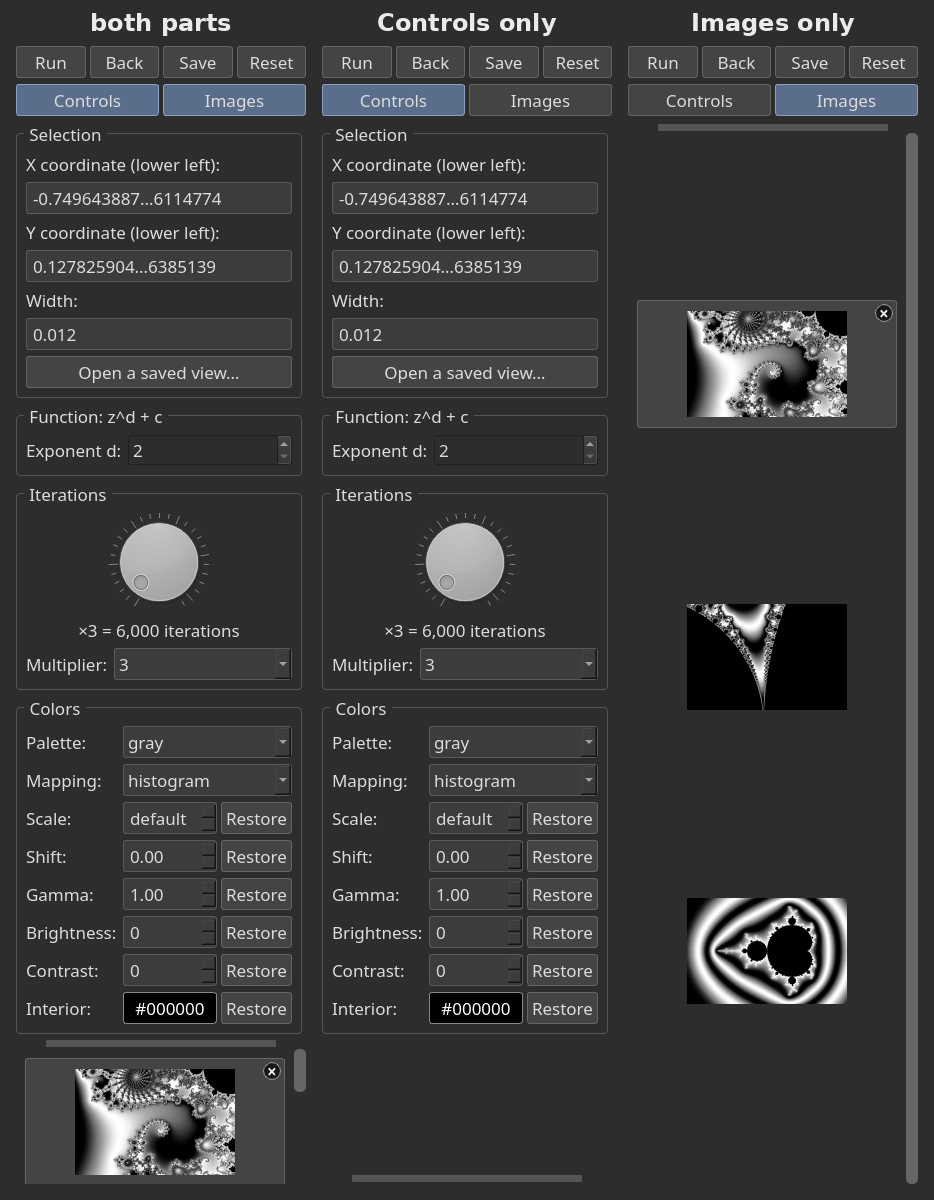
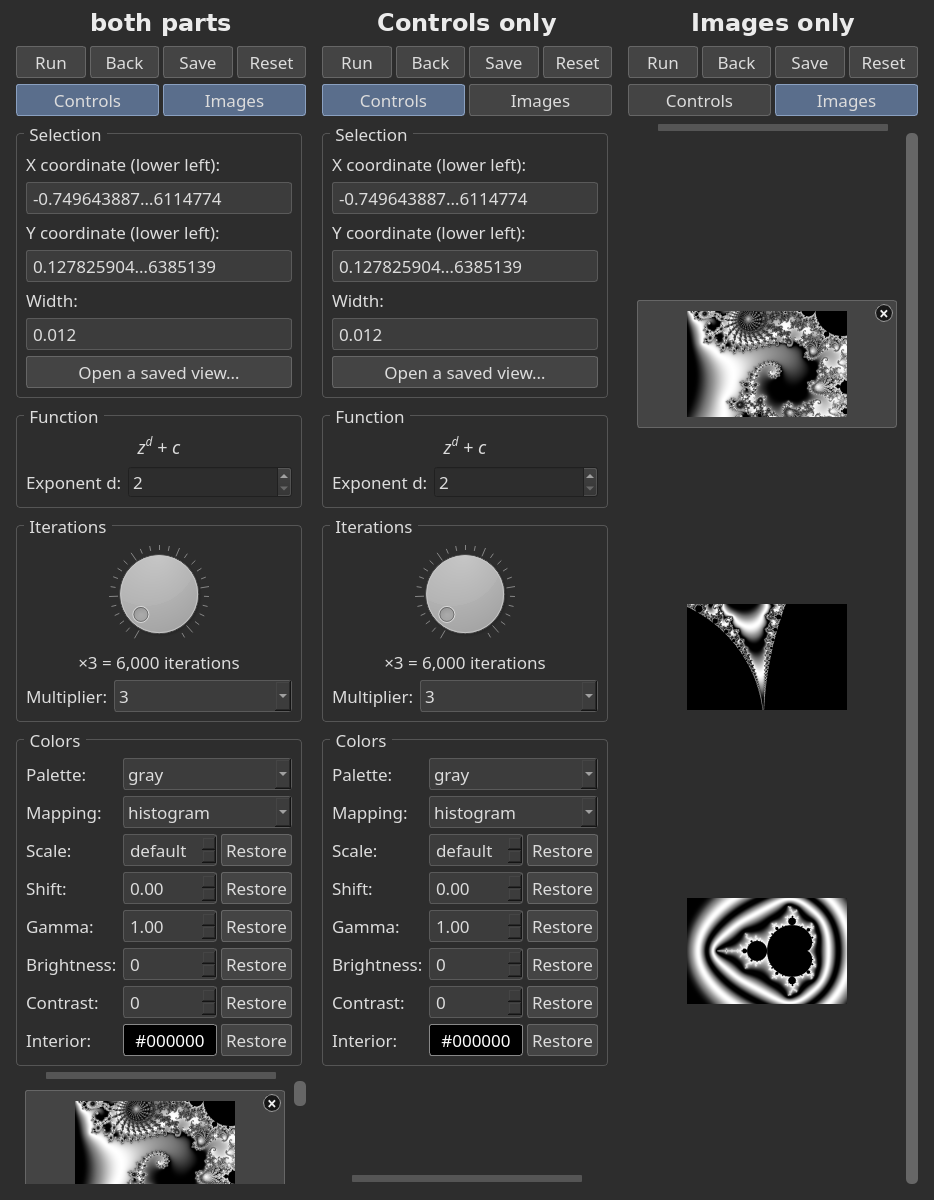
Closing the Drawing dialog only puts it away; formula shown as z^d + c
The dialog's close button and Esc hide it and the render carries on; only the Cancel button cancels.
The Function group shows the formula in rich text (z, raised d, c) and the README writes it as
GitHub math. README and screenshots updated.

Changed region(s): [[0.031, 0.3392, 0.652, 0.9867], [0.031, 0.3392, 0.1552, 0.4625], [0.621, 0.37, 0.652, 0.4317]]

diff --git a/mand-gui.py b/mand-gui.py
@@ -831,23 +831,53 @@ CANCEL_SHOWS_AFTER = 15         # seconds before the Cancel dialog appears (ordi
 CANCELED_PROBLEM = 'canceled'
 
 
+class RenderDialog(QProgressDialog):
+    """The Drawing dialog. Its Cancel button cancels the render; the window's close button and Esc only put the
+    dialog away (the render carries on, and closing the main window still cancels it)."""
+    finished = False
+
+    def closeEvent(self, event):
+        if self.finished:
+            event.accept()
+        else:
+            event.ignore()      # (not the base class's: it would report a cancel)
+            self.hide()
+
+    def reject(self):
+        if not self.finished:
+            self.hide()
+
+    def keyPressEvent(self, event):
+        if event.key() == Qt.Key_Escape:
+            self.reject()
+        else:
+            super().keyPressEvent(event)
+
+    def finish(self):
+        self.finished = True
+        self.close()
+        self.deleteLater()
+
+
 def keep_responsive():
     """Called every few hundredths of a second while the renderer runs. True once the user has canceled."""
     if RENDER['dialog'] is None and time.time() - RENDER['since'] > CANCEL_SHOWS_AFTER:
-        dlg = QProgressDialog('Drawing the view...\n\nDeep views and high iteration limits can take a very long time.',
+        dlg = RenderDialog('Drawing the view...\n\nDeep views and high iteration limits can take a very long time.',
                               'Cancel', 0, 0, window)
         dlg.setWindowTitle('Drawing')
         dlg.setWindowModality(Qt.ApplicationModal)
         dlg.setMinimumDuration(0)
         dlg.setAutoClose(False)
         dlg.setAutoReset(False)
-        dlg.canceled.connect(lambda: RENDER.update(canceled=True))
+        button = QPushButton('Cancel')           # (only a click on this cancels: Esc and the close button just put the dialog away)
+        dlg.setCancelButton(button)
+        button.clicked.connect(lambda: RENDER.update(canceled=True))
         dlg.show()
         RENDER['dialog'] = dlg
-    # until the dialog is up, clicks and keys are ignored rather than starting something else in the middle of a render
-    flags = QEventLoop.AllEvents if RENDER['dialog'] else QEventLoop.ExcludeUserInputEvents
+    # unless the dialog is up, clicks and keys are ignored rather than starting something else in the middle of a render
+    flags = QEventLoop.AllEvents if RENDER['dialog'] is not None and RENDER['dialog'].isVisible() else QEventLoop.ExcludeUserInputEvents
     QApplication.processEvents(flags)
-    return RENDER['canceled'] or (RENDER['dialog'] is not None and RENDER['dialog'].wasCanceled())
+    return RENDER['canceled']
 
 
 def rendering():
@@ -882,8 +912,7 @@ def render_view(out, nu, xval, yval, wval, ival, degree=FUNC_DEFAULT):
         problem = 'cannot run {}: {}'.format(cmd[0], e)
     finally:
         if RENDER['dialog'] is not None:
-            RENDER['dialog'].close()
-            RENDER['dialog'].deleteLater()
+            RENDER['dialog'].finish()
         RENDER.update(since=None, dialog=None)
         for temporary in (refname, specname):
             if temporary and os.path.exists(temporary):
@@ -1178,8 +1207,13 @@ if __name__ == '__main__':
     color_group = QGroupBox('Colors')
     color_group.setLayout(color_form)
     func_form = QFormLayout()
+    func_label = QLabel('<i>z</i><sup><i>d</i></sup> + <i>c</i>')       # (Qt's rich text: z to the d, plus c)
+    func_label.setTextFormat(Qt.RichText)
+    func_label.setAlignment(Qt.AlignCenter)
+    func_label.setStyleSheet('font-size: 18px;')
+    func_form.addRow(func_label)
     func_form.addRow('Exponent d:', power_box)
-    func_group = QGroupBox('Function: z^d + c')
+    func_group = QGroupBox('Function')
     func_group.setLayout(func_form)
     iter_form = QFormLayout()
     iter_form.addRow('Multiplier:', inter)

diff --git a/tests/gui_driver.py b/tests/gui_driver.py
@@ -1394,6 +1394,29 @@ def drive():
         check('and then the window closes', not window.isVisible())
         window.show()
         QtWidgets.QApplication.processEvents()
+        # the dialog's close button and Esc only put it away: the render carries on, and closing the main window still cancels it
+        for how in ('close button', 'Esc'):
+            released = {}
+
+            def put_away(how=how, released=released):
+                dlg = g['RENDER']['dialog']
+                if how == 'Esc':
+                    dlg.reject()                 # (what Esc does in a dialog)
+                else:
+                    dlg.close()
+                QtWidgets.QApplication.processEvents()
+                released['hidden'] = not dlg.isVisible()
+                released['canceled'] = g['RENDER']['canceled']
+                released['running'] = g['rendering']() and not renderer_gone()
+            QtCore.QTimer.singleShot(1000, put_away)
+            QtCore.QTimer.singleShot(2000, window.close)
+            g['on_run']()
+            check('the dialog\'s %s puts it away without canceling the render' % how, released == {'hidden': True, 'canceled': False, 'running': True}, released)
+            check('and the render then stops when the main window is closed (%s)' % how, MAP.curr is shown_before and renderer_gone() and
+                  len(list(MAP)) == views_before and len(dialogs) == dialogs_before)
+            QtWidgets.QApplication.processEvents()
+            window.show()
+            QtWidgets.QApplication.processEvents()
         os.remove(slow)
         g['on_run']()
         check('and the next render is ordinary', MAP.curr is not shown_before and len(list(MAP)) == views_before + 1)

diff --git a/README.md b/README.md
@@ -12,8 +12,8 @@ where ordinary floating point gives up. It runs on a CUDA GPU, or on plain CPU c
 * **Zooms past 1e-1000.** Plain double precision runs out near a view width of 1e-13. Below 1e-9 gpumand switches to *perturbation
   theory*: it works out one exact reference path with arbitrary-precision numbers, and every pixel only tracks its tiny difference from it.
   Coordinates are kept as exact decimals all the way, so repeated zooms never round off.
-* **More than the square.** The **Exponent d** box draws the sets of z³ + c, z⁴ + c and so on up to z⁶⁴ + c, as well as the ordinary
-  Mandelbrot set (z² + c, the starting setting). They zoom as deep as the ordinary one, and each view remembers its own exponent.
+* **More than the square.** The **Exponent d** box draws the sets of $z^3 + c$, $z^4 + c$ and so on up to $z^{64} + c$, as well as the ordinary
+  Mandelbrot set ($z^2 + c$, the starting setting). They zoom as deep as the ordinary one, and each view remembers its own exponent.
 * **Smooth, pleasing colors.** Nine palettes, three ways of spreading them over the image, and no color banding. Gamma, brightness,
   contrast and the color of the inside of the set can be adjusted too. Changing a color setting repaints the picture instantly without
   drawing it again.
@@ -71,8 +71,8 @@ Run it:
 | **Save** | Writes the picture on screen as a PNG (see below). |
 | **Open a saved view...** | Draws a view from a PNG this program saved. |
 | **Reset** | Back to the whole set, with every control (exponent, palette, mapping, Scale, Shift, Gamma, Brightness, Contrast, Interior and the iteration multiplier) back to its starting setting. It may ask about old files first, and if you cancel, nothing changes. |
-| Exponent d | The set of z^d + c, for a whole number d from 2 to 64; 2 is the ordinary Mandelbrot set. Press **Run** to draw the new exponent as a new view, so the earlier picture stays in the history. A view zoomed from it keeps its exponent, and **Back** and the thumbnails show each view's own. |
-| Iterations dial / Multiplier | The most iterations a render may use is 2000 times the multiplier, up to 20 million (40 billion iterations). More iterations fill in black areas of deep views but take longer. At the top of the range a view with much of its area inside the set can take hours, because every inside pixel runs to the full limit. If a render takes more than 15 seconds a **Drawing** dialog appears with a **Cancel** button that stops it and leaves everything as it was. |
+| Exponent d | The set of $z^d + c$, for a whole number d from 2 to 64; 2 is the ordinary Mandelbrot set. Press **Run** to draw the new exponent as a new view, so the earlier picture stays in the history. A view zoomed from it keeps its exponent, and **Back** and the thumbnails show each view's own. |
+| Iterations dial / Multiplier | The most iterations a render may use is 2000 times the multiplier, up to 20 million (40 billion iterations). More iterations fill in black areas of deep views but take longer. At the top of the range a view with much of its area inside the set can take hours, because every inside pixel runs to the full limit. If a render takes more than 15 seconds a **Drawing** dialog appears with a **Cancel** button that stops it and leaves everything as it was. Closing that dialog with its **×** or Esc only puts it away: the render carries on (closing the main window still cancels it). |
 | Colors | Palette, mapping, Scale, Shift, Gamma, Brightness, Contrast and Interior. Each change repaints at once. Each setting except the palette and mapping has a **Restore** button that puts it back to its starting value. |
 | **Controls** and **Images** buttons | The side column has two parts that share its height: the controls, and the pictures of the views you have made. Each button shows or hides its part, so one part can have the whole column. Drag the bar between the parts to give either more room (drag it to the end to close a part). One part always stays open, and Run, Back, Save and Reset stay in view either way. |
 
@@ -181,7 +181,7 @@ differently).
 | `mand-gpu.cu`, `mand-cpu.c` | The GPU and CPU renderers. They share `pert.h` (the per-pixel code), `bla.c`, `colorize.c`, `refio.c`, `funcspec.c`. |
 | `children.py` | Runs the renderer so that it stops when the window closes, is killed, or a render is canceled. |
 | `deepzoom.py` | Reference orbits and exact coordinate math. |
-| `funcspec.c`, `funcspec.h`, `funcspec.py` | The small file that tells a renderer the exponent to use (`--func=FILE`), for z^d + c with d from 2 to 64. |
+| `funcspec.c`, `funcspec.h`, `funcspec.py` | The small file that tells a renderer the exponent to use (`--func=FILE`), for $z^d + c$ with $d$ from 2 to 64. |
 | `colorize-main.c`, `colorize.c` | Palettes, mappings, and the recolor tool. |
 | `meta.py` | The view description stored inside saved PNGs. |
 | `cleanup.py` | Which files the program may remove, and how. |
